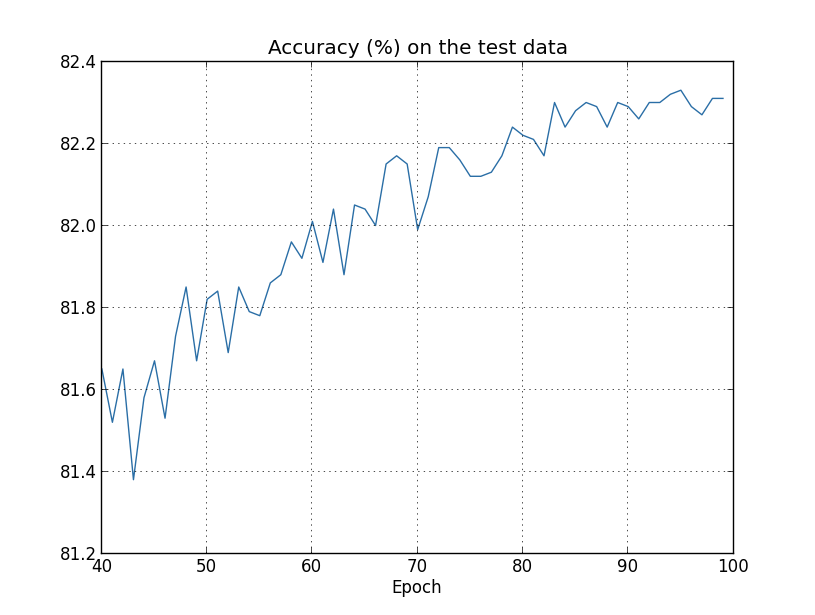
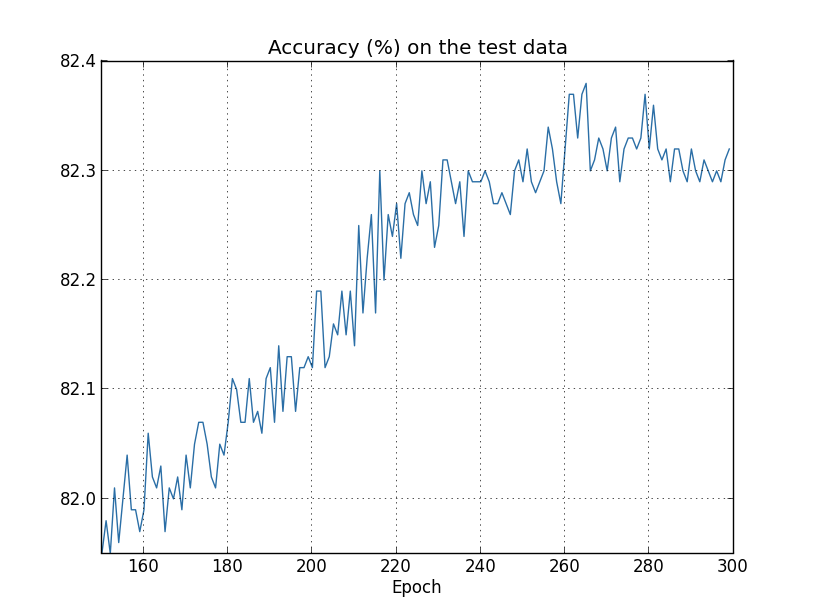
Adding results for overfitting on full data set (much less is going on), plus a new graph

diff --git a/fig/overfitting.py b/fig/overfitting.py
@@ -81,11 +81,14 @@ def make_plots(filename, num_epochs,
     plot_test_cost(test_cost, num_epochs, test_cost_xmin)
     plot_training_accuracy(training_accuracy, num_epochs, 
                            training_accuracy_xmin, training_set_size)
+    plot_overlay(test_accuracy, training_accuracy, num_epochs,
+                 min(test_accuracy_xmin, training_accuracy_xmin),
+                 training_set_size)
 
 def plot_training_cost(training_cost, num_epochs, training_cost_xmin):
     fig = plt.figure()
     ax = fig.add_subplot(111)
-    ax.plot(np.arange(training_cost_xmin, num_epochs, 1), 
+    ax.plot(np.arange(training_cost_xmin, num_epochs), 
             training_cost[training_cost_xmin:num_epochs],
             color='#2A6EA6')
     ax.set_xlim([training_cost_xmin, num_epochs])
@@ -97,7 +100,7 @@ def plot_training_cost(training_cost, num_epochs, training_cost_xmin):
 def plot_test_accuracy(test_accuracy, num_epochs, test_accuracy_xmin):
     fig = plt.figure()
     ax = fig.add_subplot(111)
-    ax.plot(np.arange(test_accuracy_xmin, num_epochs, 1), 
+    ax.plot(np.arange(test_accuracy_xmin, num_epochs), 
             [accuracy/100.0 
              for accuracy in test_accuracy[test_accuracy_xmin:num_epochs]],
             color='#2A6EA6')
@@ -110,7 +113,7 @@ def plot_test_accuracy(test_accuracy, num_epochs, test_accuracy_xmin):
 def plot_test_cost(test_cost, num_epochs, test_cost_xmin):
     fig = plt.figure()
     ax = fig.add_subplot(111)
-    ax.plot(np.arange(test_cost_xmin, num_epochs, 1), 
+    ax.plot(np.arange(test_cost_xmin, num_epochs), 
             test_cost[test_cost_xmin:num_epochs],
             color='#2A6EA6')
     ax.set_xlim([test_cost_xmin, num_epochs])
@@ -123,7 +126,7 @@ def plot_training_accuracy(training_accuracy, num_epochs,
                            training_accuracy_xmin, training_set_size):
     fig = plt.figure()
     ax = fig.add_subplot(111)
-    ax.plot(np.arange(0, num_epochs, 1), 
+    ax.plot(np.arange(training_accuracy_xmin, num_epochs), 
             [accuracy*100.0/training_set_size 
              for accuracy in training_accuracy[training_accuracy_xmin:num_epochs]],
             color='#2A6EA6')
@@ -131,6 +134,26 @@ def plot_training_accuracy(training_accuracy, num_epochs,
     ax.grid(True)
     ax.set_xlabel('Epoch')
     ax.set_title('Accuracy (%) on the training data')
+    plt.show()
+
+def plot_overlay(test_accuracy, training_accuracy, num_epochs, xmin,
+                 training_set_size):
+    fig = plt.figure()
+    ax = fig.add_subplot(111)
+    ax.plot(np.arange(xmin, num_epochs), 
+            [accuracy/100.0 for accuracy in test_accuracy], 
+            color='#2A6EA6',
+            label="Accuracy on the test data")
+    ax.plot(np.arange(xmin, num_epochs), 
+            [accuracy*100.0/training_set_size 
+             for accuracy in training_accuracy], 
+            color='#FFA933',
+            label="Accuracy on the training data")
+    ax.grid(True)
+    ax.set_xlim([xmin, num_epochs])
+    ax.set_xlabel('Epoch')
+    ax.set_ylim([90, 100])
+    plt.legend(loc="lower right")
     plt.show()
 
 if __name__ == "__main__":
